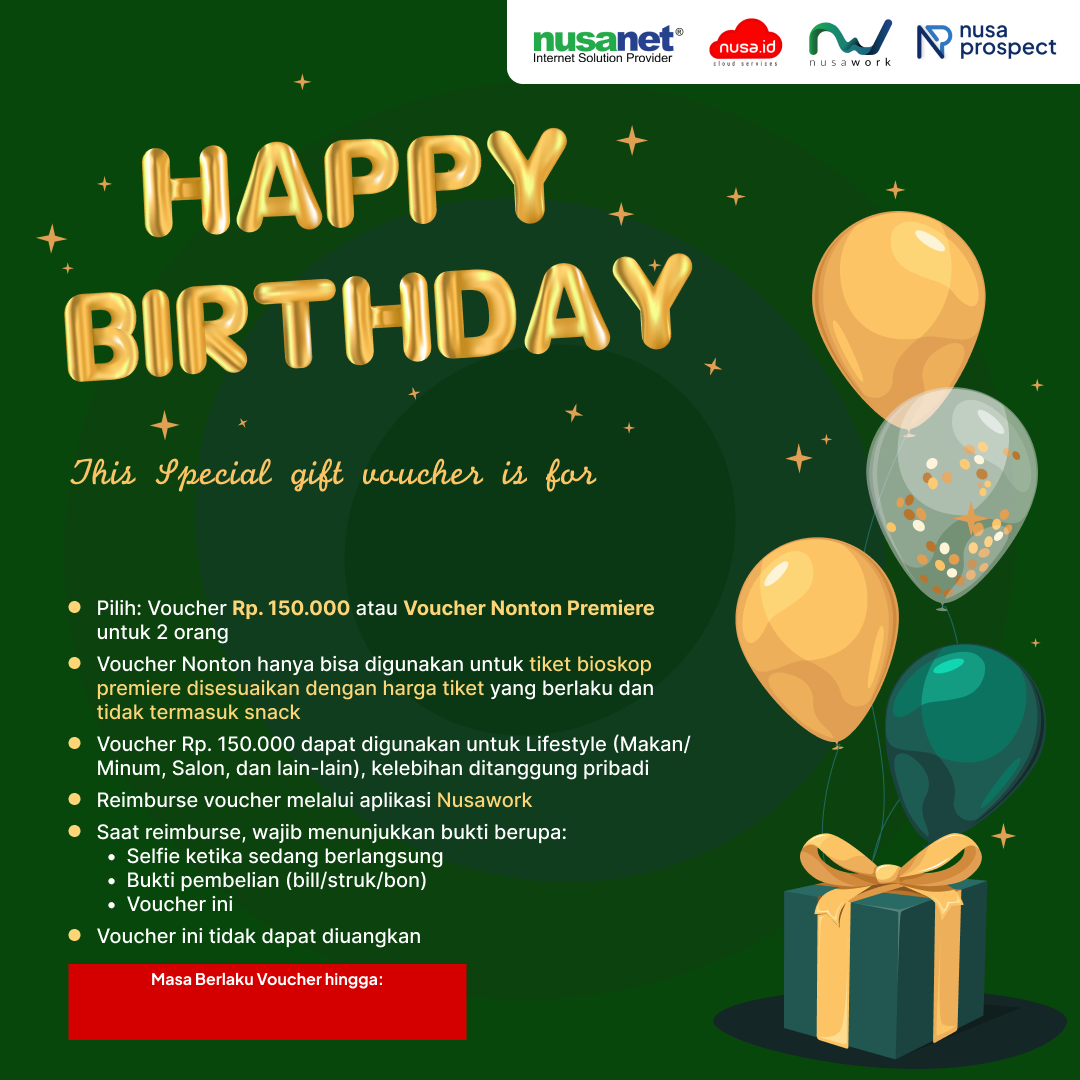
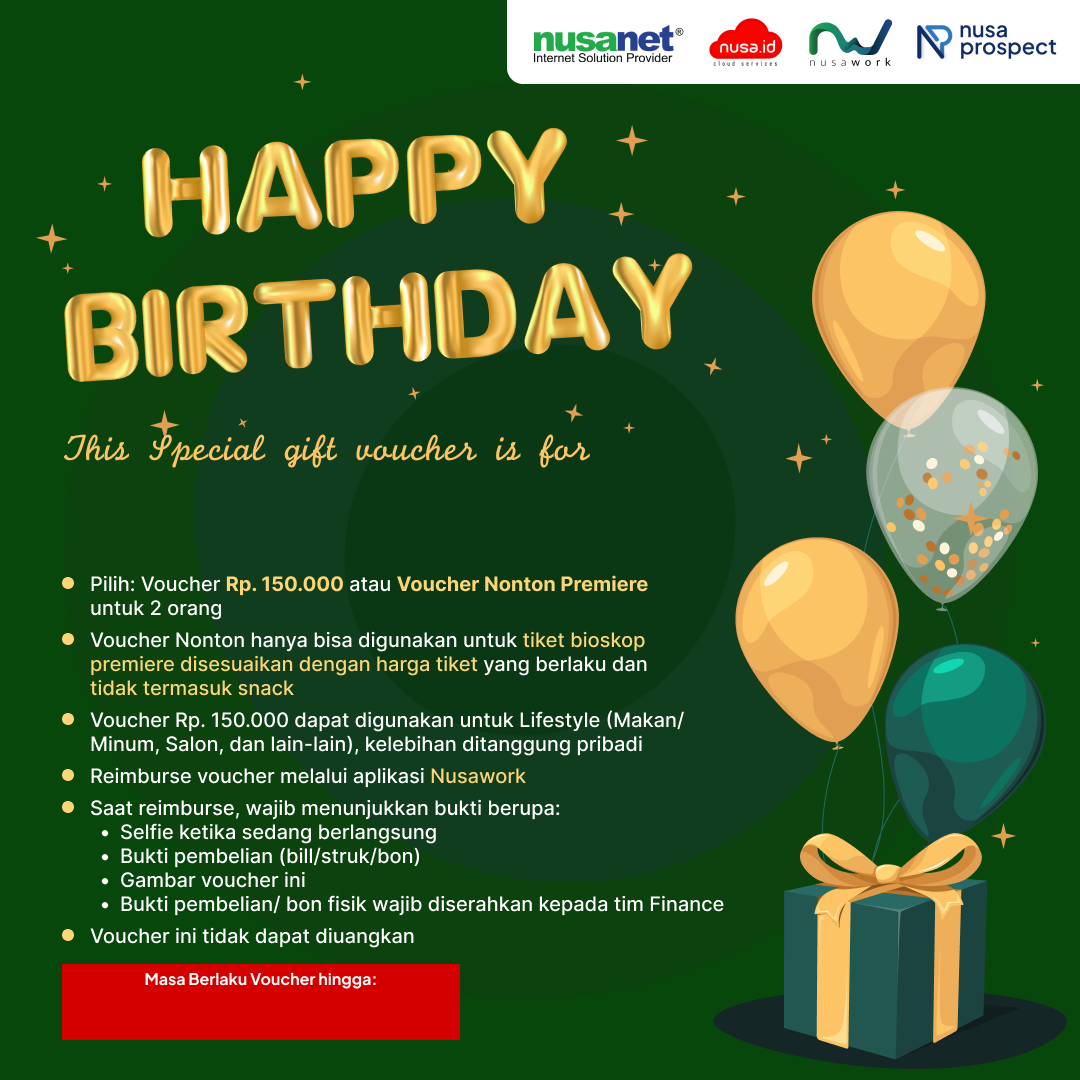
Adjust birthday voucher template layout

diff --git a/src/birthday.ts b/src/birthday.ts
@@ -178,7 +178,7 @@ export async function createBirthdayVoucherGift(
 ): Promise<void> {
   try {
     const textNameAreaX = 4
-    const textNameAreaY = 484
+    const textNameAreaY = 460
     const textNameAreaWidth = 736
     const textNameAreaHeight = 100
     const textNameFontSize = 68
@@ -186,7 +186,7 @@ export async function createBirthdayVoucherGift(
     const textEndPeriodX = 68
     const textEndPeriodY = 1020
     const textEndPeriodWidth = 398
-    const textEndPeriodFontSize = 28
+    const textEndPeriodFontSize = 32
 
     const formatedEndPeriodDate = endPeriodDate.toLocaleString('id-ID', {
       year: 'numeric',
